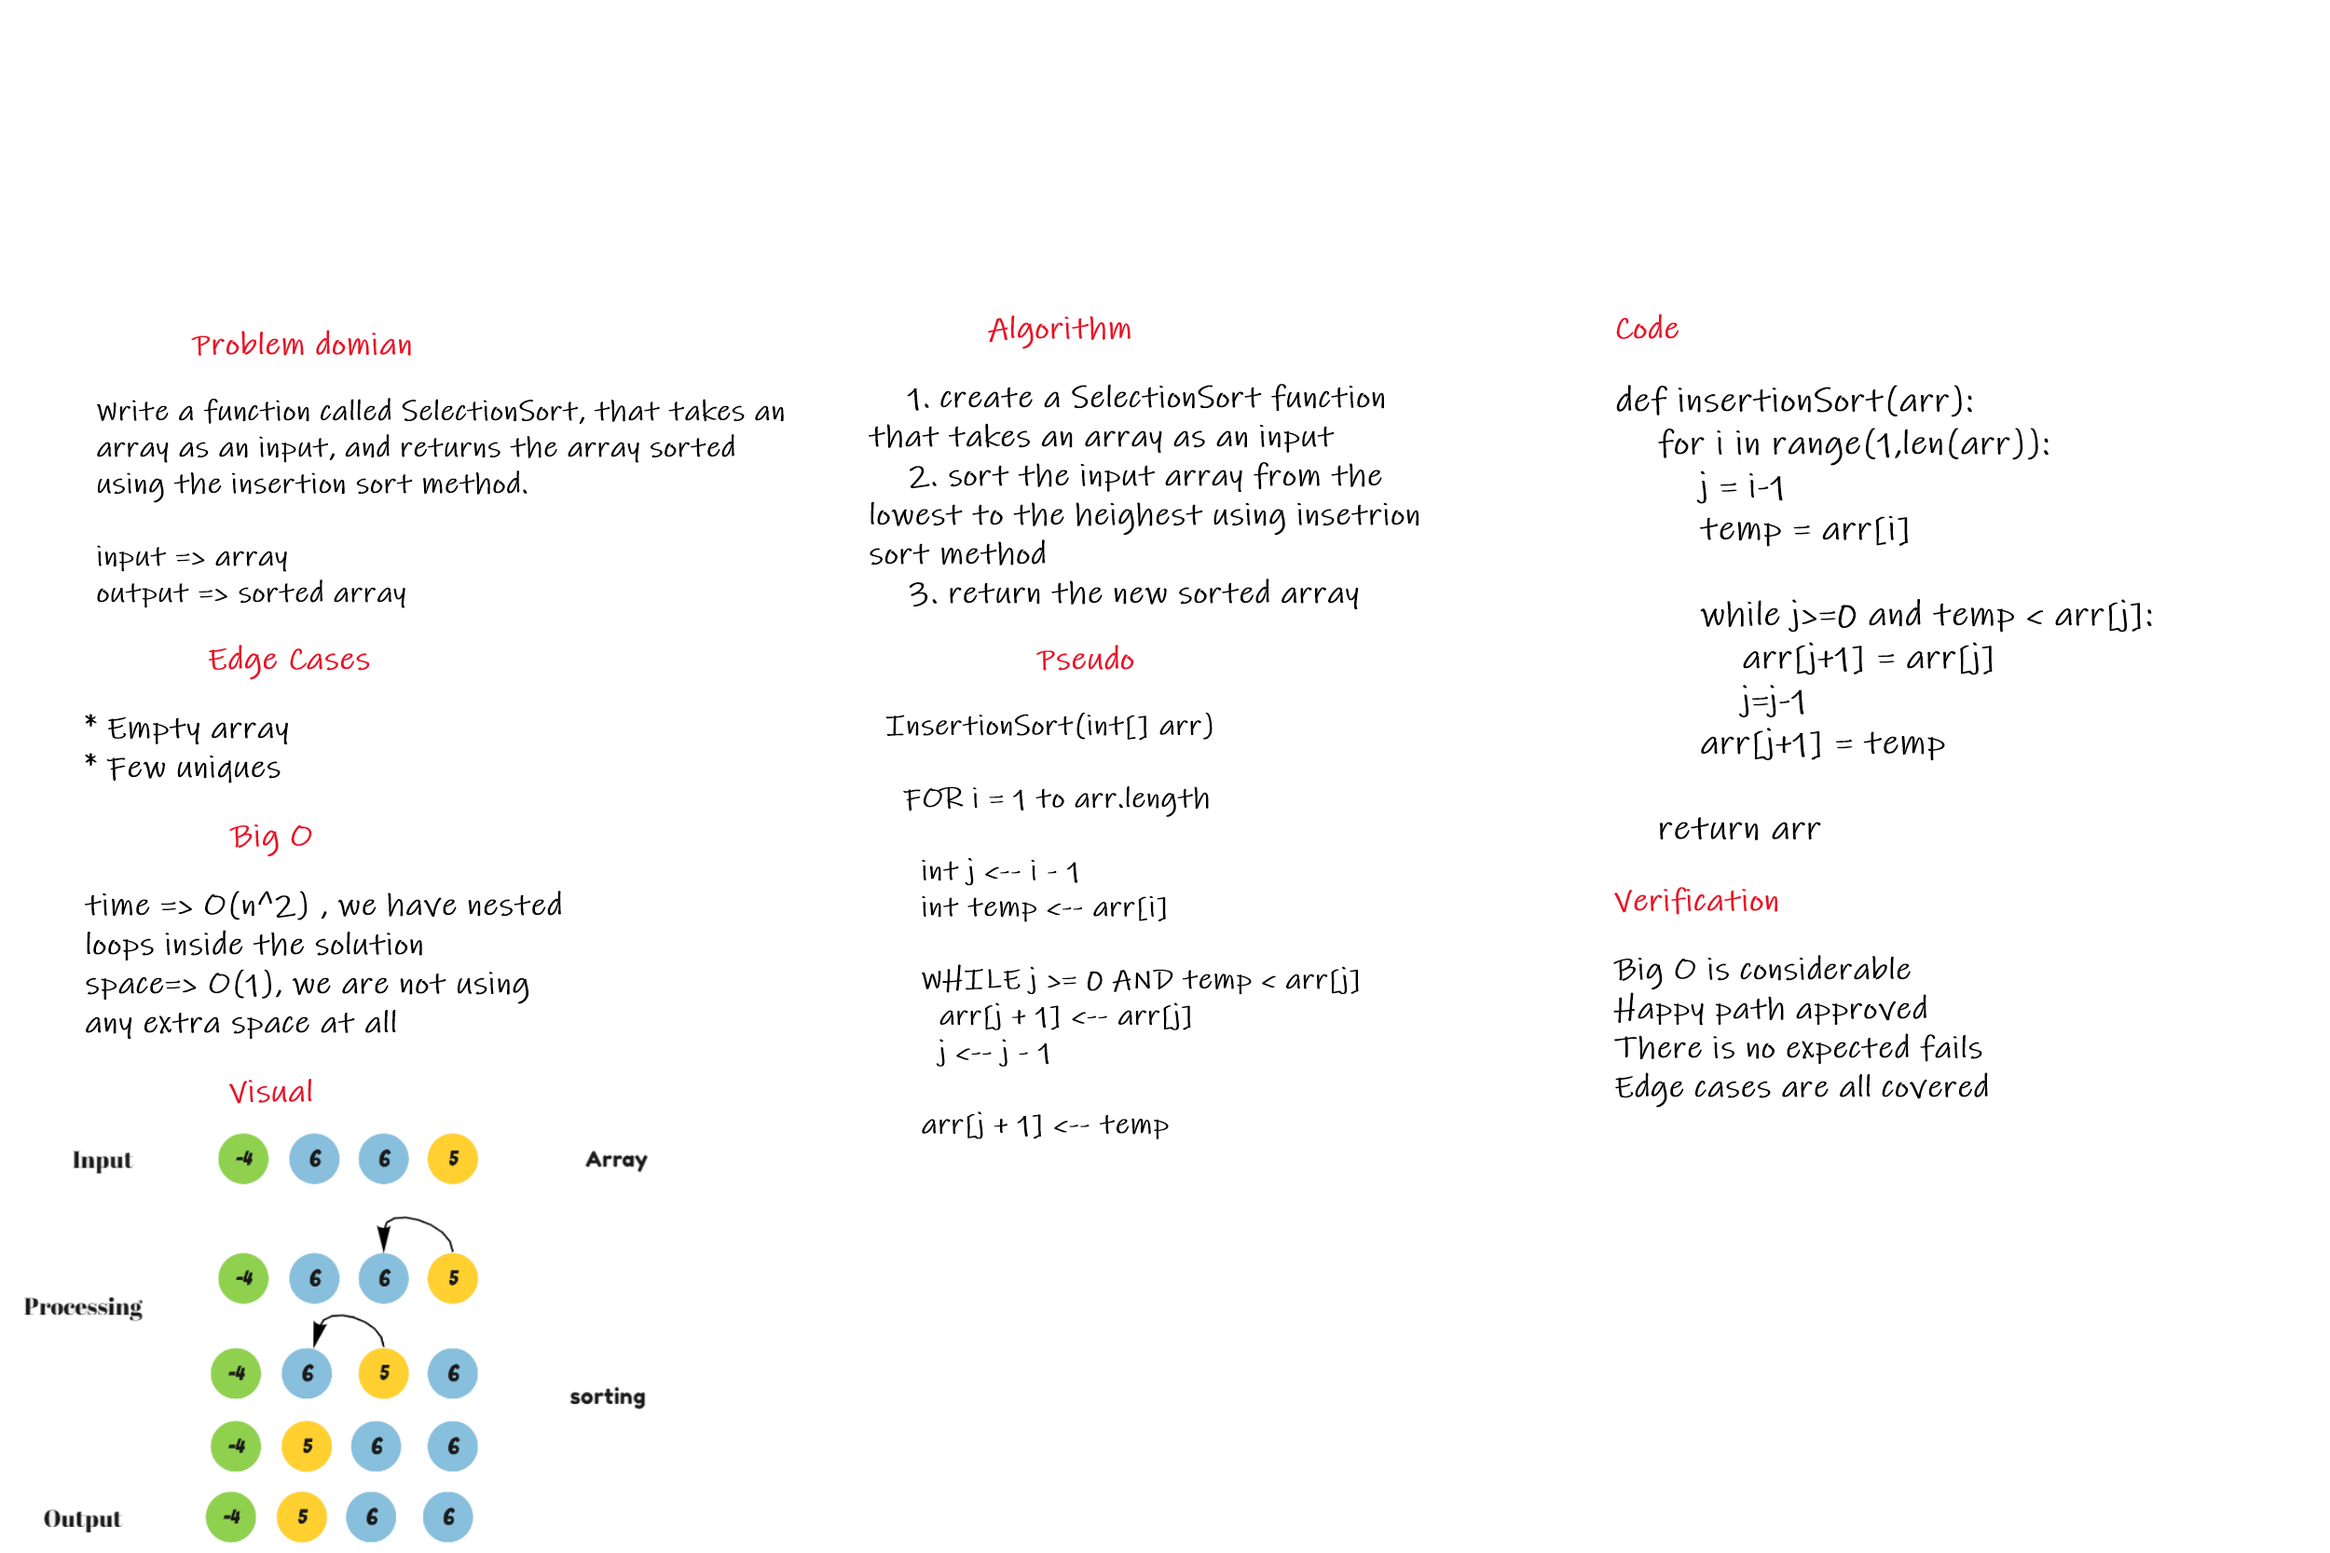
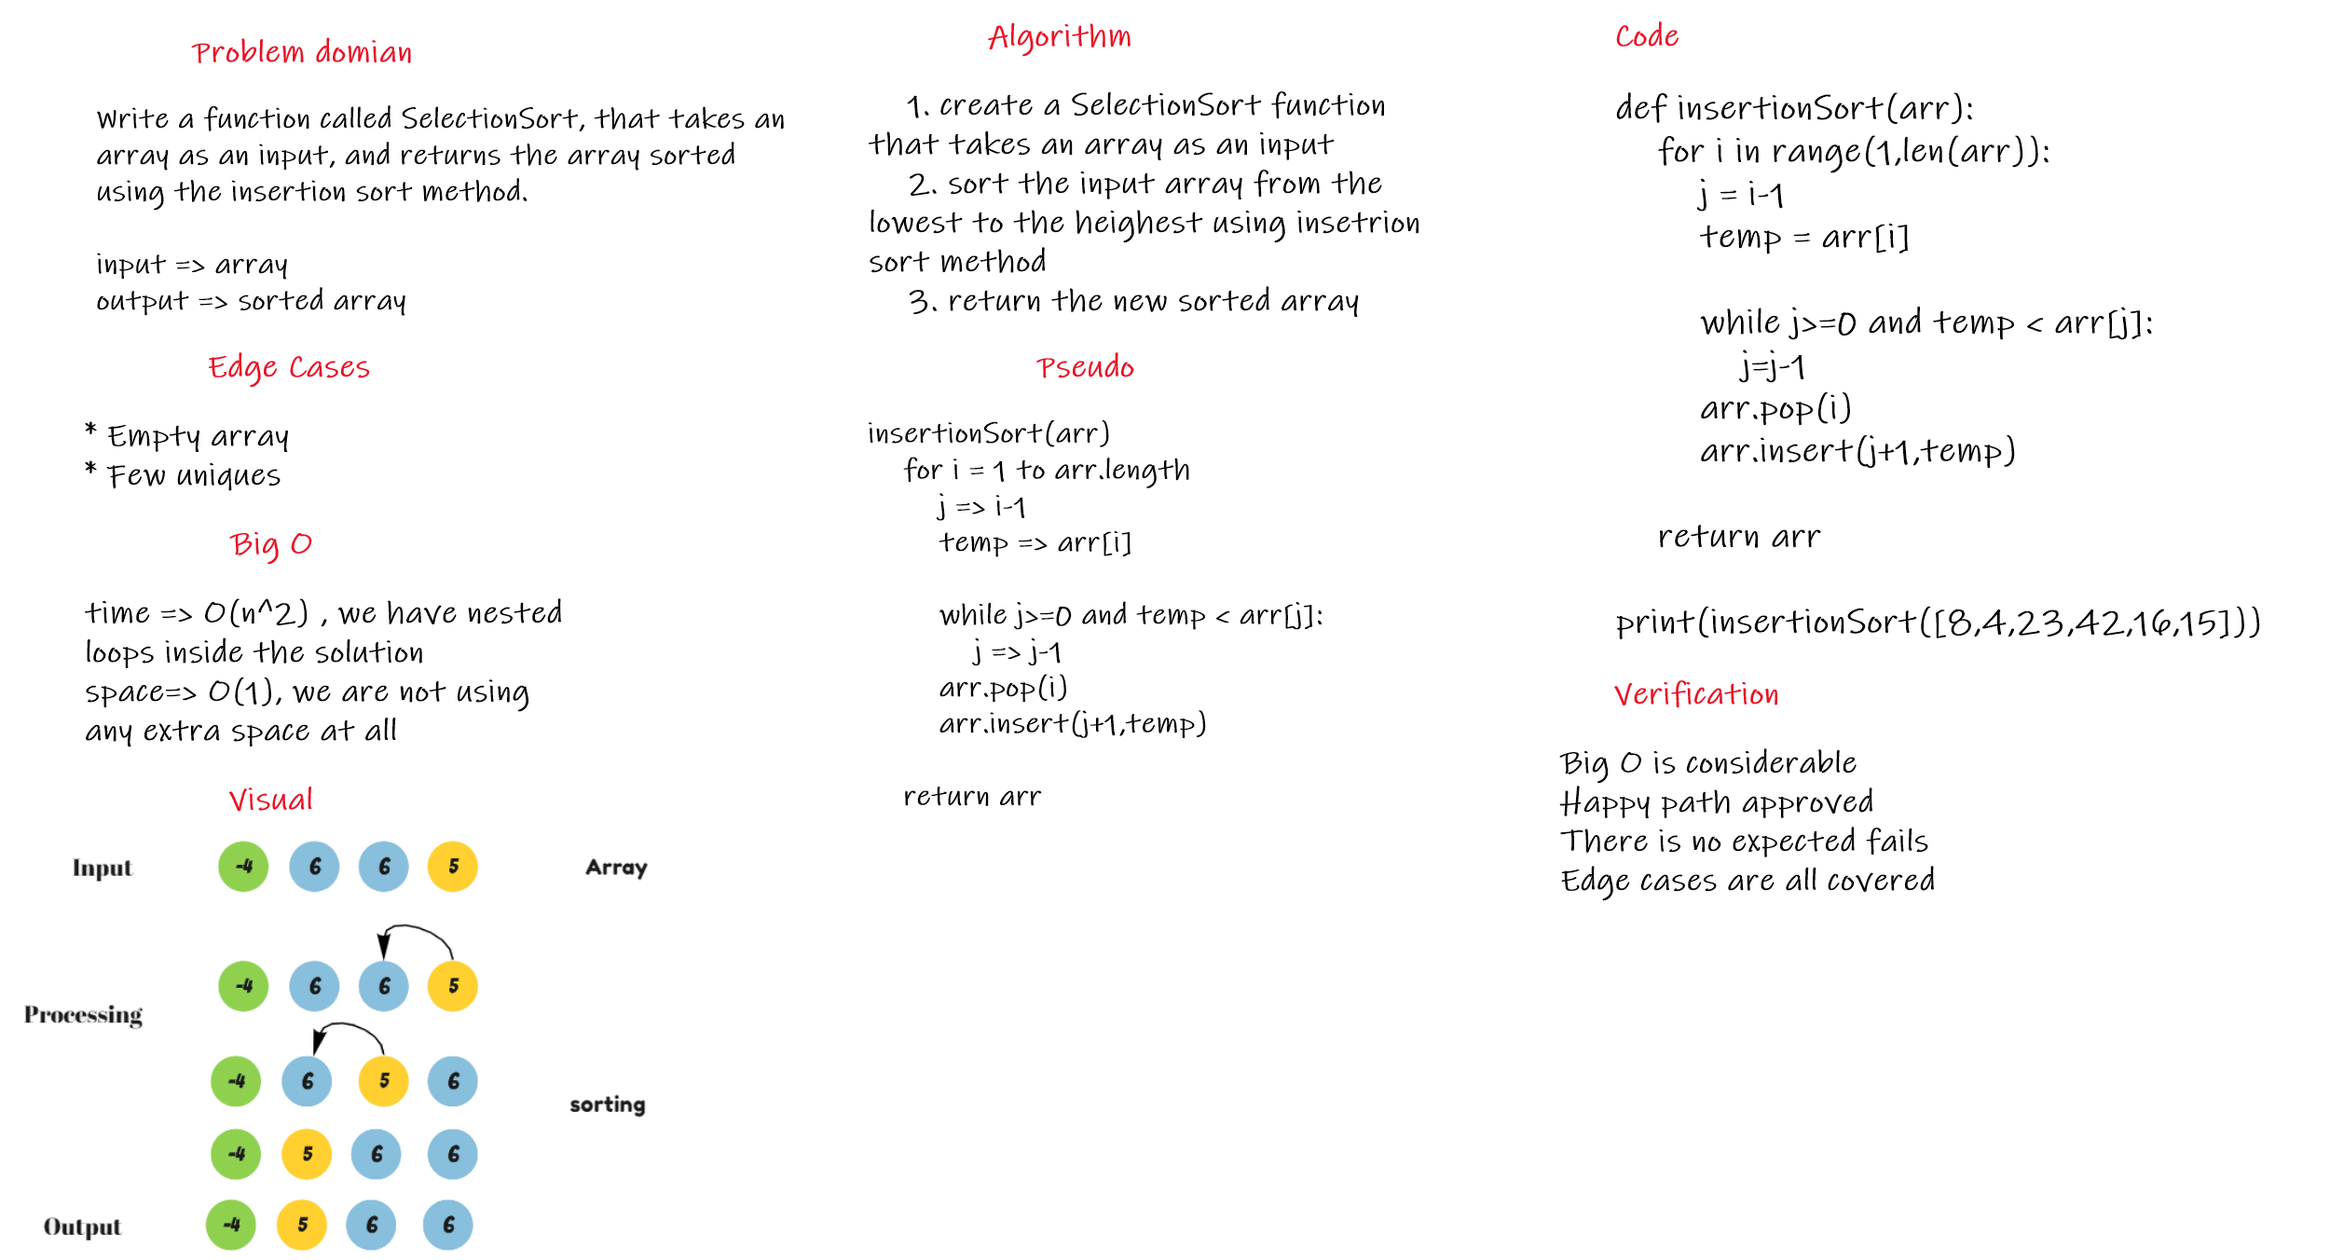
forgut to change the code from repl.it

diff --git a/challenges/insertion_sort/insertion_sort/insertion.py b/challenges/insertion_sort/insertion_sort/insertion.py
@@ -4,8 +4,8 @@ def insertionSort(arr):
         temp = arr[i]
 
         while j>=0 and temp < arr[j]:
-            arr[j+1] = arr[j]
             j=j-1
-        arr[j+1] = temp
+        arr.pop(i)
+        arr.insert(j+1,temp)
 
     return arr

diff --git a/README.md b/README.md
@@ -19,4 +19,4 @@ Welcome to the Data structure and algorithms, the following table is for all the
 | **Day 16** |[Day 16](Data-Structures/trees/README2.md) |
 | **Day 17** |[Day 17](challenges/breadthFirst/README3.md) |
 | **Day 18** |[Day 18](challenges/tree-fizz-buzz/README.md) |
-| **Day 26** |[Day 18](challenges/insertion_sort/README.md) |
+| **Day 26** |[Day 26](challenges/insertion_sort/README.md) |

diff --git a/challenges/insertion_sort/BLOG.md b/challenges/insertion_sort/BLOG.md
@@ -1,3 +1,5 @@
+# Insertion sort
+
 Insertion sort is a simple sorting algorithm that works similar to the way you sort playing cards in your hands. The array is virtually split into a sorted and an unsorted part. Values from the unsorted part are picked and placed at the correct position in the sorted part.
 
 ## Tracing the code

diff --git a/challenges/insertion_sort/README.md b/challenges/insertion_sort/README.md
@@ -31,9 +31,9 @@ def insertionSort(arr):
         temp = arr[i]
 
         while j>=0 and temp < arr[j]:
-            arr[j+1] = arr[j]
             j=j-1
-        arr[j+1] = temp
+        arr.pop(i)
+        arr.insert(j+1,temp)
 
     return arr
 ```
